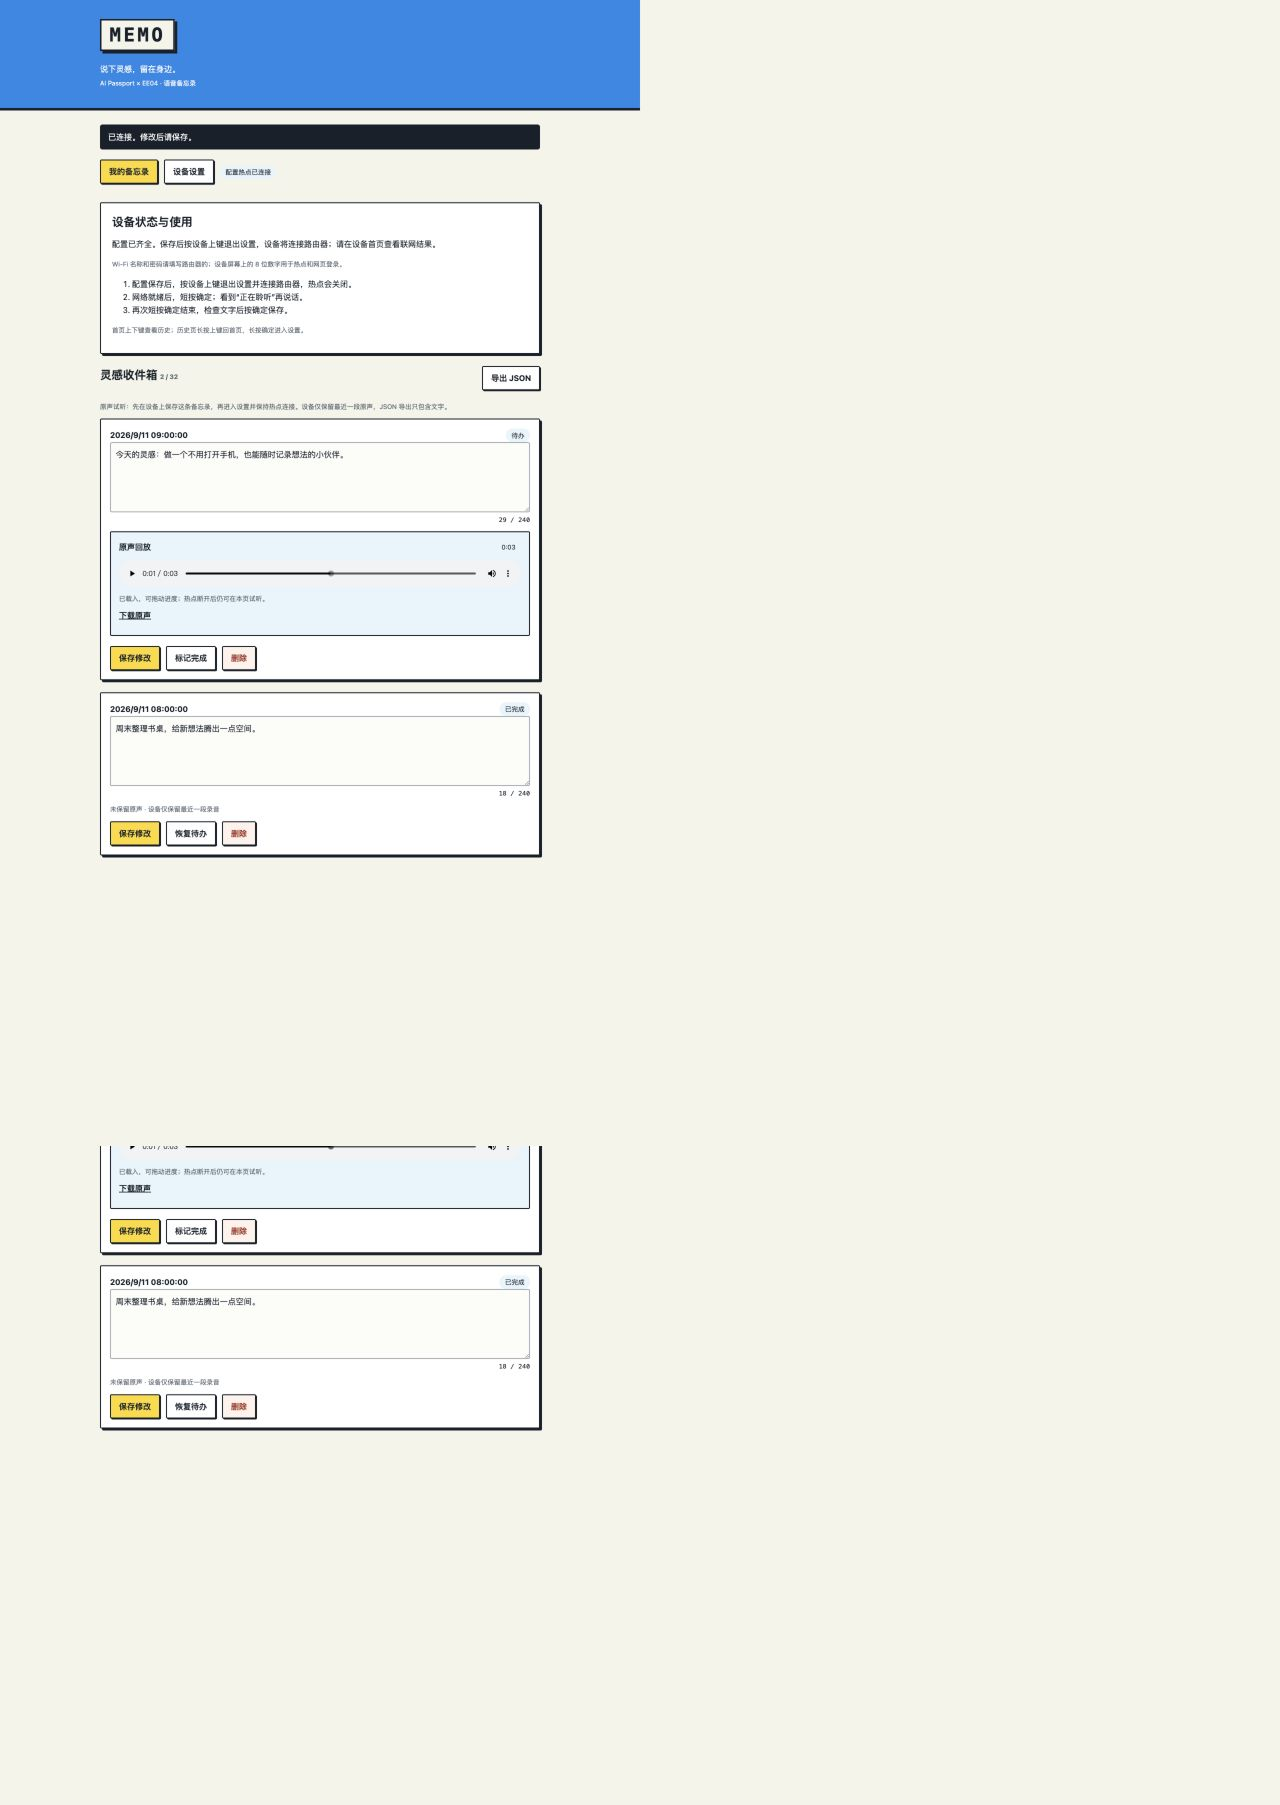
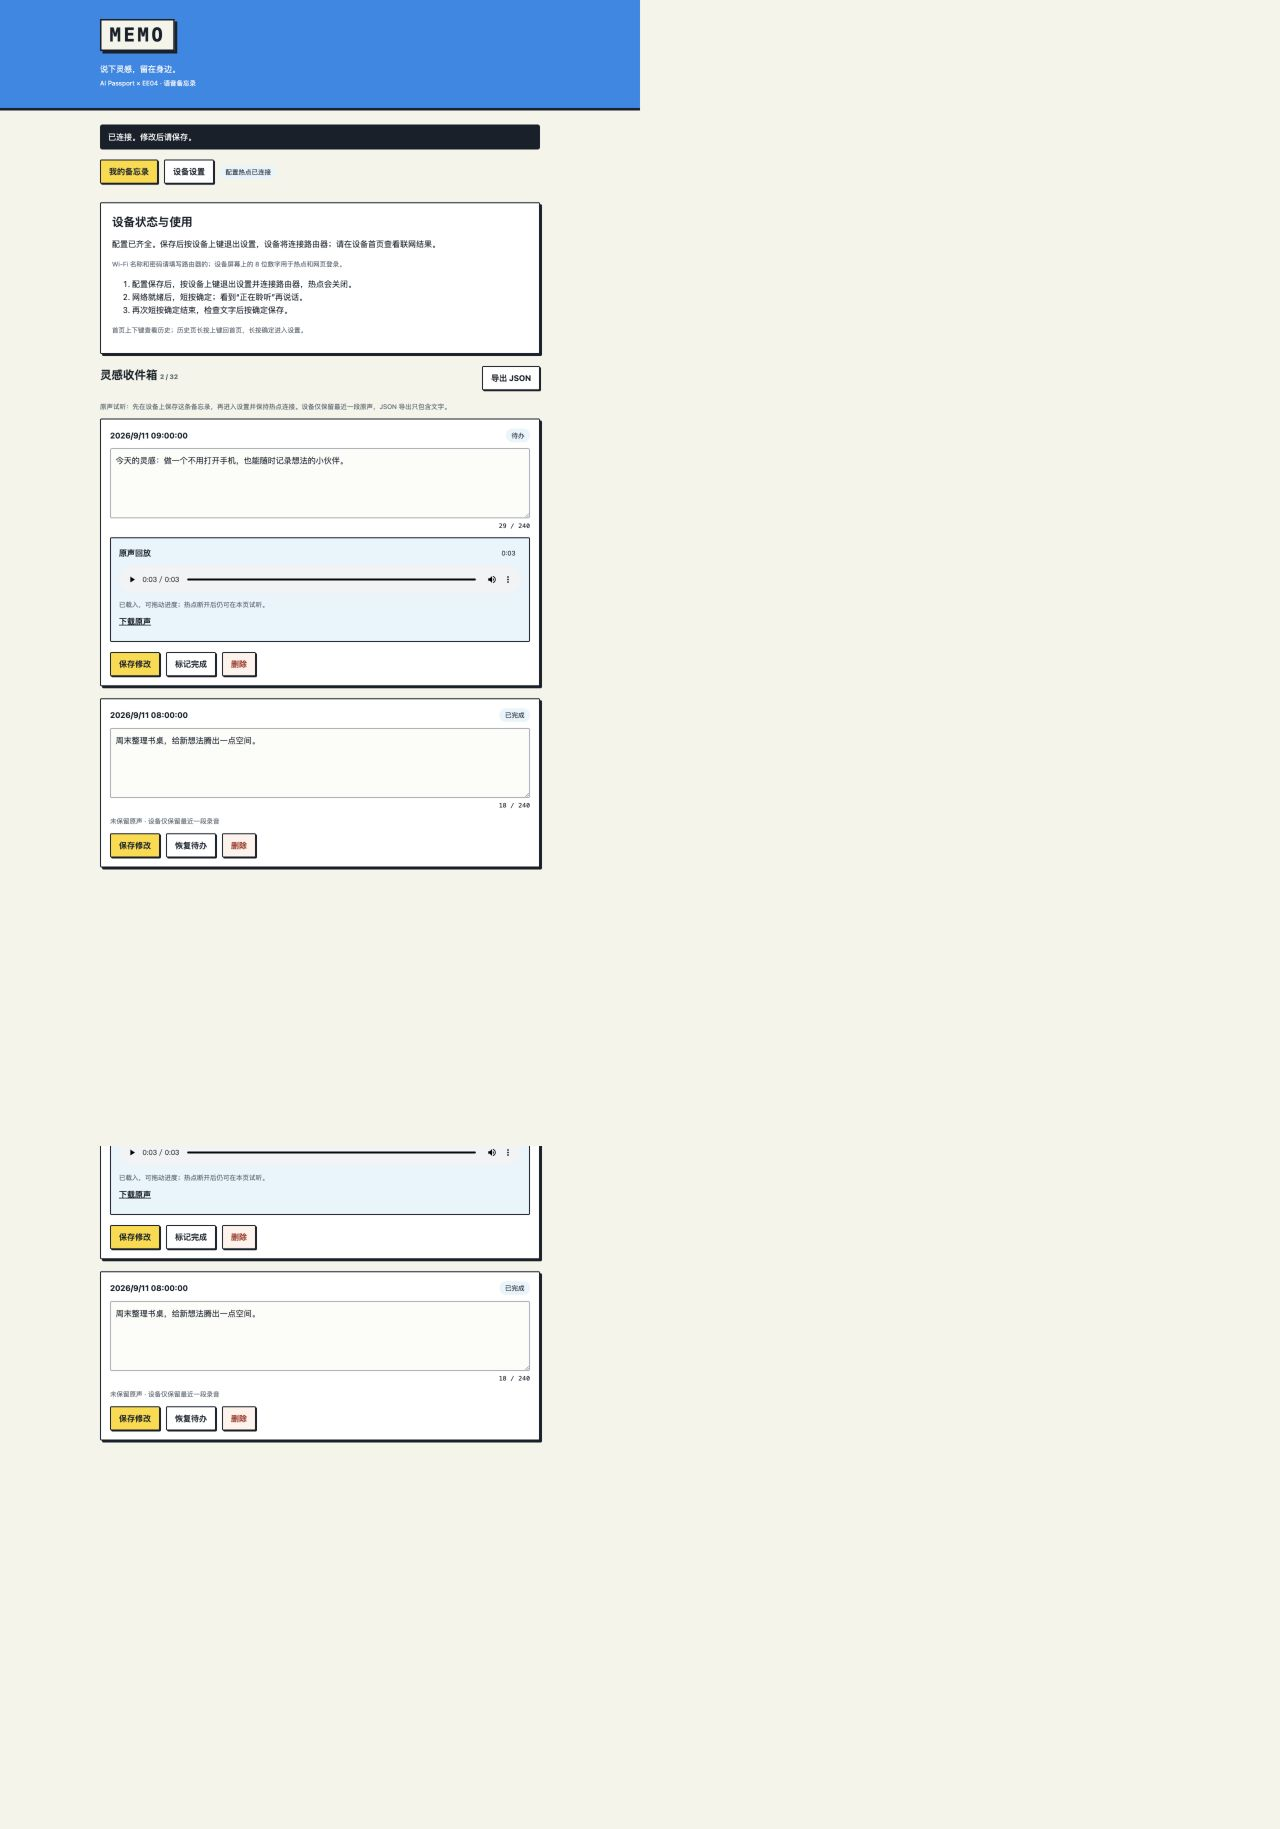
fix: separate note status tags from the text field

diff --git a/main/memo_portal.html b/main/memo_portal.html
@@ -180,11 +180,15 @@
     }
     .note header {
       padding: 0;
+      margin-bottom: 12px;
       background: none;
       color: inherit;
       border: 0;
       display: flex;
+      align-items: center;
       justify-content: space-between;
+      gap: 12px;
+      flex-wrap: wrap;
     }
     .note .row {
       margin-top: 14px;

diff --git a/docs/validation.md b/docs/validation.md
@@ -13,7 +13,7 @@ Recorded on **2026-09-11**, updated **2026-09-12**. Build and host tests are rep
 - Actual LVGL UI rendered on the host, including all nine phases with 240-character text. Prior measured peak: 29,336 / 40,960 bytes.
 - EE04 host tests: content/image/refresh behavior, nonce expiry, replay handling, rollover and signing bytes. EE04 firmware compiles separately for XIAO ESP32-S3.
 
-Published-source build: Passport application **2,100,320 bytes / 3,145,728 limit**, merged image **2,165,856 bytes**; EE04 application **1,769,744 bytes**, static RAM **63,792 bytes**. Sizes can vary with the Git-derived version string.
+Published-source build: Passport application **2,100,416 bytes / 3,145,728 limit**, merged image **2,165,952 bytes**; EE04 application **1,769,744 bytes**, static RAM **63,792 bytes**. Sizes can vary with the Git-derived version string.
 
 ## Real Passport session
 
@@ -74,3 +74,5 @@ Multi-phone compatibility, real-device 120-second transfer, interrupted transfer
 - Both boards together: pairing, persistence receipt, display refresh and retry behavior.
 
 No raw logs, speech, credentials, USB identities or device backups are published with this record.
+
+Header-spacing follow-up: browser previews at 1280 px and 390 px both measured a 12 px gap between the header and text field, with no horizontal overflow. These are host layout checks, not a new physical-phone test.

diff --git a/docs/validation.zh_CN.md b/docs/validation.zh_CN.md
@@ -13,7 +13,7 @@
 - 真实 LVGL 界面在主机渲染，覆盖九种状态及 240 字文本。此前测得峰值 29,336 / 40,960 字节。
 - EE04 主机测试：内容、图片、刷新逻辑，nonce 过期、防重放、计数回绕及签名字节。配套固件另行面向 XIAO ESP32-S3 编译。
 
-本次公开源码构建：Passport 应用 **2,100,320 / 3,145,728 字节**，合并镜像 **2,165,856 字节**；EE04 应用 **1,769,744 字节**，静态 RAM **63,792 字节**。Git 版本字符串变化可能令大小略有变化。
+本次公开源码构建：Passport 应用 **2,100,416 / 3,145,728 字节**，合并镜像 **2,165,952 字节**；EE04 应用 **1,769,744 字节**，静态 RAM **63,792 字节**。Git 版本字符串变化可能令大小略有变化。
 
 ## Passport 实机会话
 
@@ -74,3 +74,5 @@
 - 双板联动：配对、持久化回执、墨水屏刷新与重试。
 
 本记录不发布原始日志、语音、密钥、USB 标识或设备备份。
+
+标题行间距修复：桌面 1280 px 和手机尺寸 390 px 浏览器预览均测得标题与输入框之间为 12 px，无横向溢出；此处是主机布局验证，不代表新的手机实测。

diff --git a/docs/CHANGELOG.md b/docs/CHANGELOG.md
@@ -2,6 +2,10 @@
 
 # Changelog
 
+## Note header spacing — 2026-09-12
+
+- Separate the date/status row from the text field by 12 px, center the items and allow wrapping on narrow screens.
+
 ## Browser audio preview — 2026-09-12
 
 - Preview the latest saved recording in the local portal, with native play/pause, seeking and download controls.

diff --git a/docs/CHANGELOG.zh_CN.md b/docs/CHANGELOG.zh_CN.md
@@ -2,6 +2,10 @@
 
 # 更新记录
 
+## 备忘录标题间距 — 2026-09-12
+
+- 日期与状态标签行和正文输入框之间增加 12 px 间距，居中对齐，窄屏下允许换行。
+
 ## 网页音频预览 — 2026-09-12
 
 - 本地网页试听最近一条已保存录音，支持原生播放、暂停、进度跳转及下载。
